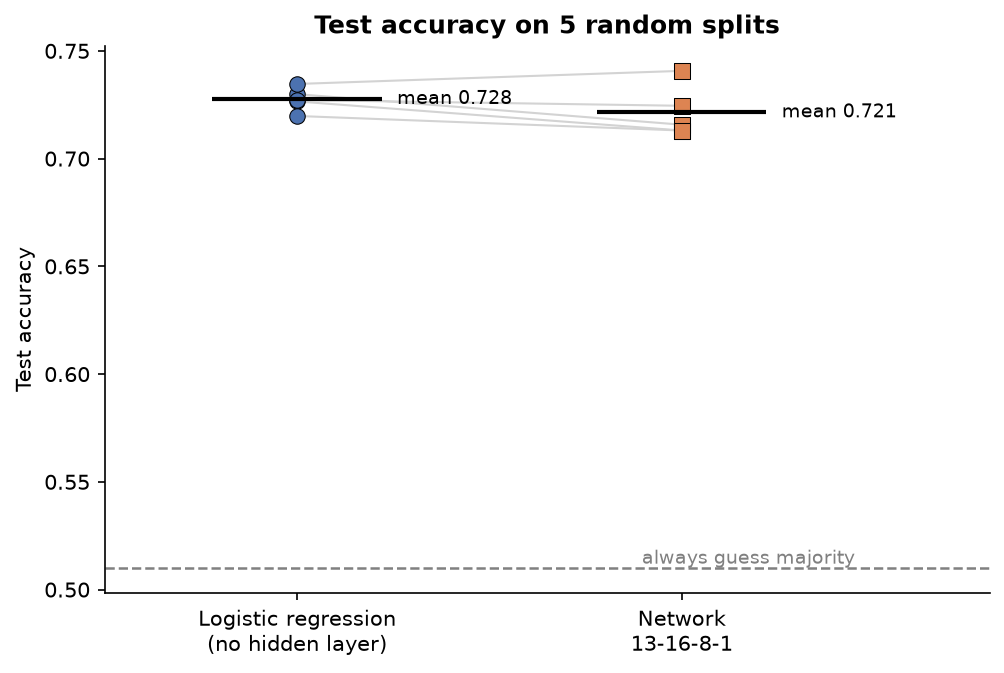
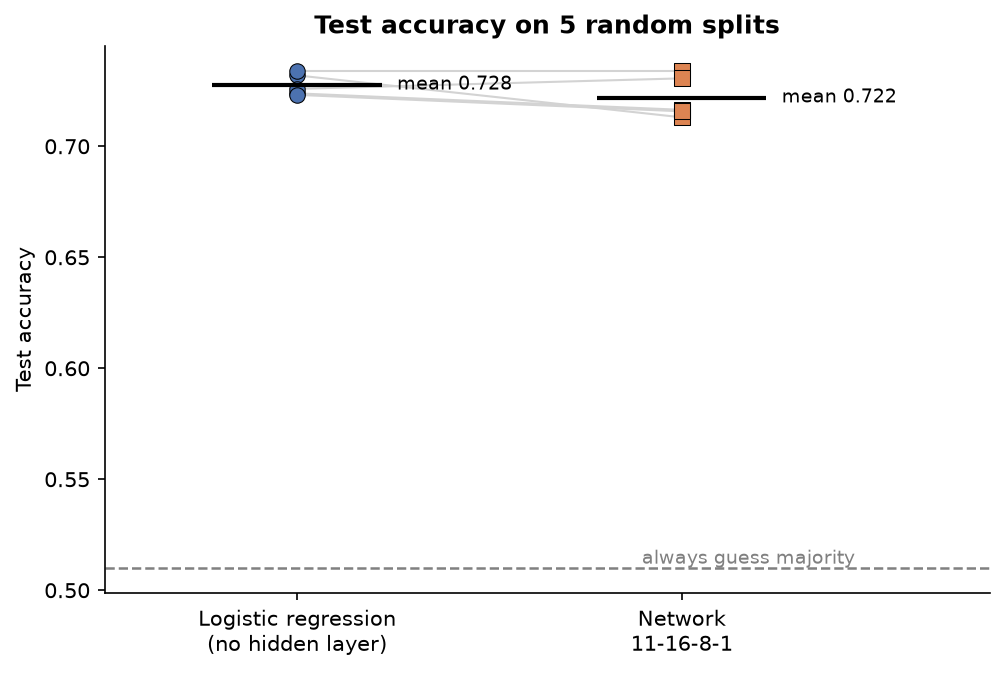
Document mirroring, learning curve and all-minutes results in README
Adds a quick check table of commands and expected output, mirrored
cross-validation rows, the all-minutes results and the confidence
table.

diff --git a/README.md b/README.md
@@ -20,10 +20,11 @@ well as the network, the boosted trees and their ensemble** on these 11 features
 | Data pipeline: CSV loader, train/val/test split, standardization | `nn/data.py` |
 | Metrics and diagnostics: accuracy, confusion matrix, majority baseline, overfitting report | `nn/metrics.py`, `nn/diagnostics.py` |
 | Exact logistic regression (Newton's method), the baseline every other model has to beat | `nn/logistic.py` |
+| Blue/red mirror: train on every game from both teams' points of view, average the two answers | `nn/symmetry.py` |
 | Save / load a trained model (weights + scaler) | `nn/persistence.py` |
 | Visualizations | `nn/visualize.py` |
-| Examples | `examples/xor.py`, `examples/lol_winner.py`, `examples/predict_game.py`, `examples/compare_models.py`, `examples/cross_validate.py` |
-| Tests (35) | `tests/` |
+| Examples | `examples/xor.py`, `examples/lol_winner.py`, `examples/predict_game.py`, `examples/compare_models.py`, `examples/cross_validate.py`, `examples/learning_curve.py`, `examples/anytime.py` |
+| Tests (45) | `tests/` |
 
 Features: L2 regularization, He / Xavier initialization, overflow-safe sigmoid.
 
@@ -105,15 +106,35 @@ Always run from the project root.
 
 ```
 python -m examples.xor                  # classic sanity check: learn XOR, with visualizations
-python -m tests.test_gradients          # also: test_training, test_persistence, test_diagnostics,
-                                        #       test_timeline, test_logistic, test_data
+python -m tests.test_gradients          # also: test_training, test_persistence, test_diagnostics, test_timeline,
+                                        #       test_logistic, test_data, test_symmetry, test_metrics, test_anytime
 python -m examples.lol_winner           # train on the real data, evaluate, save the model
 python -m examples.predict_game goldDiff=2000 expDiff=1000 killDiff=3
 python -m examples.compare_models       # logistic regression vs the network, over 5 splits
-python -m examples.cross_validate       # every model, 10-fold: one score per model (about 2 minutes)
+python -m examples.cross_validate       # every model, 10-fold: one score per model (about 5 minutes)
+python -m examples.learning_curve       # does more data help? (about 5 minutes, saves docs/learning_curve.png)
 ```
 
+Examples that draw figures open them in a window and wait for you to close it. To only save the
+figures, set `$env:MPLBACKEND="Agg"` first in PowerShell (`export MPLBACKEND=Agg` on Mac/Linux).
+
 `python -m pytest` runs all the tests at once (pytest is in `requirements.txt`).
+
+### Check that it works
+
+| Command | Takes | You should see |
+|---|---|---|
+| `python -m pytest -q` | 3 s | `45 passed` |
+| `python -m examples.xor` | 10 s | the four XOR predictions near 0, 1, 1, 0 |
+| `python -m examples.lol_winner` | 10 s | test accuracy 71.4% (one split, ±2.3), the "How far to trust a call" table, `Saved model -> models/lol_model.npz` |
+| `python -m examples.predict_game goldDiff=2000 expDiff=1000 killDiff=3` | 1 s | a blue win chance of about 75%; swap the signs and red gets the same 75% |
+| `python -m examples.compare_models` | 1 min | logistic regression 72.8%, network 72.2% (5 splits) |
+| `python -m examples.cross_validate` | 5 min | the table under Results; exact logistic regression 73.4% ± 0.9 |
+| `python -m examples.learning_curve` | 5 min | the table under "Does more data help?" |
+| `python -m examples.anytime` | 3 min | the all-minutes tables (needs `data/games.jsonl`) |
+
+Runs are seeded, so the numbers repeat exactly on the same machine. NumPy versions can shift the last
+digit of a log loss. If `±` shows up as `?` in the console, run `$env:PYTHONIOENCODING="utf-8"` first.
 
 **Data:** download `high_diamond_ranked_10min.csv` from Kaggle
 (*League of Legends Diamond Ranked Games (10 min)*, about 9,900 high-rank solo queue games)
@@ -133,6 +154,12 @@ weight of about 0, and dropping them left its accuracy unchanged. The rest of th
 no duplicates or missing values, and the columns that mirror each other (blue kills and red
 deaths, for example) agree on every game.
 
+First blood is +1 if blue got it and -1 if red did, so **every feature changes sign if the two teams
+swap places**. That symmetry is used twice (`nn/symmetry.py`): each game is also trained on from the
+other team's point of view, which doubles the rows without a single new game, and a prediction is the
+average of the two views, so it cannot depend on which team happens to be called blue. Results below
+marked "(mirrored)" use it.
+
 ## Collecting more data and combining models
 
 The Kaggle file is a fixed 10-minute snapshot, which caps how well any model can do. These parts
@@ -143,6 +170,7 @@ $env:RIOT_API_KEY="RGAPI-..."           # free development key, developer.riotga
 python -m collect.riot --per-tier 2500   # 8 tiers x 2500 games, resumable, ~15-20 h, ~320 MB
 python -m examples.ensemble --games data/games.jsonl
 python -m examples.ensemble              # same models on the Kaggle CSV
+python -m examples.anytime               # one model for every minute vs one per minute (needs data/games.jsonl)
 ```
 
 | Part | Files |
@@ -151,6 +179,7 @@ python -m examples.ensemble              # same models on the Kaggle CSV
 | Features at any minute: gold / XP momentum, lane-by-lane gold, carry gap, recent kills, tier, champion win-rate prior (fit on training games only) | `nn/timeline.py` |
 | Gradient-boosted trees from scratch (Newton boosting, histogram splits) | `nn/boosting.py` |
 | Ensemble: logistic regression + network + boosted trees, probabilities averaged | `nn/ensemble.py` |
+| One model for every minute: logistic regression + boosted trees trained on rows from every minute of every game | `nn/anytime.py`, `build_rows` in `nn/timeline.py` |
 
 On the Kaggle CSV (11 features) the ensemble does **not** beat plain logistic regression
 (73.1% against 73.4%, see Results): those features hold only so much signal. The gains have to come
@@ -158,12 +187,13 @@ from the new features and from predicting at later minutes, which need the colle
 Games that end before a checkpoint are dropped from that checkpoint, so later minutes are scored
 on longer games only.
 
-A first look at the collected data (800 games, 100 per tier, five random splits). Each test set is
-only 120 games, so the margin is 2 to 5 points: a smoke test, not a result.
+A first look at the collected data (800 games, 100 per tier, five random splits, every model trained on
+both teams' views of each game). Each test set is only 120 games, so the margin is 2 to 5 points: a
+smoke test, not a result.
 
 ![Accuracy by minute](docs/accuracy_vs_time.png)
 
-Accuracy climbs from about 62% at minute 5 to 76-78% at minute 20, and the models cannot be told apart
+Accuracy climbs from about 63% at minute 5 to 78% at minute 20, and the models cannot be told apart
 at this size. One bug is fixed here. The champion win-rate feature used to contain each training game's
 own result, so it picked the winner 71.7% of the time on the games it was fitted on and 51.7% on new
 games, and the models overfit to it. Training games are now scored leave-one-game-out
@@ -171,9 +201,32 @@ games, and the models overfit to it. Training games are now scored leave-one-gam
 5-fold check on the same 800 games (margin about 3 points) this raised logistic regression by 1.6 to
 2.2 points at every checkpoint.
 
+### One model for every minute
+
+Four separate models, one per checkpoint minute, each see only 800 games. `python -m examples.anytime`
+instead trains one logistic regression and one set of boosted trees on rows from **every** minute from
+5 to 30 of every training game (the same game at minute 5, 6, 7 ...), with the minute as an extra input.
+It sees many more rows, answers at any minute (not only at the checkpoints), and is still scored on whole
+games: the folds are split by game, so rows of one game never land on both sides. 5-fold cross-validation,
+accuracy / log loss at each checkpoint (games that lasted that long):
+
+| Model | minute 5 | minute 10 | minute 15 | minute 20 | minute 25 |
+|---|---|---|---|---|---|
+| Logistic regression, one per minute | 62.3% / 0.652 | 69.4% / 0.591 | 74.7% / 0.527 | 77.0% / 0.468 | 80.5% / 0.406 |
+| Boosted trees, one per minute | 62.1% / 0.649 | 69.9% / 0.602 | 73.5% / 0.531 | 77.4% / 0.468 | 80.4% / 0.430 |
+| Both, one per minute | 62.6% / 0.644 | 70.9% / 0.590 | 74.3% / 0.519 | 77.2% / 0.459 | 80.2% / 0.409 |
+| Logistic regression, all minutes | 61.4% / 0.638 | 70.3% / 0.580 | 75.6% / 0.520 | 79.0% / 0.451 | 81.8% / 0.399 |
+| Boosted trees, all minutes | 63.6% / 0.637 | 70.7% / 0.581 | 75.6% / 0.513 | 77.6% / 0.452 | 81.8% / 0.400 |
+| Both, all minutes | 62.9% / 0.636 | 71.1% / 0.578 | 76.4% / 0.513 | 78.1% / 0.448 | 82.0% / 0.395 |
+
+The all-minutes models are ahead by about a point of accuracy on average, and "both, all minutes" has the
+lowest log loss at every checkpoint (0.006 to 0.014 below "both, one per minute"). Of the fifteen paired
+accuracy comparisons, three are clear on their own (95% interval above 0) and none is clearly negative.
+With 800 games that is a promising signal, not a result; the example prints the intervals.
+
 ## Results
 
-Cross-validated over all 9,879 games (`python -m examples.cross_validate`, about 2 minutes). Every game
+Cross-validated over all 9,879 games (`python -m examples.cross_validate`, about 5 minutes). Every game
 is a test game exactly once, so each score has a margin of error of about ±0.9 points, instead of the
 ±2.3 of a single 1,481-game test set. Each model is also compared with the exact logistic regression
 on the same games, with a paired bootstrap, because the models differ by less than a point.
@@ -185,45 +238,88 @@ on the same games, with a paired bootstrap, because the models differ by less th
 | Neural network | 72.6% ± 0.9 | 0.5340 | 0.010 | +0.9 points | -0.80 [-1.23, -0.36] points |
 | Boosted trees | 72.8% ± 0.9 | 0.5335 | 0.007 | +0.9 points | -0.54 [-0.92, -0.15] points |
 | Ensemble | 73.1% ± 0.9 | 0.5302 | 0.008 | +0.5 points | -0.25 [-0.58, +0.08] points |
+| Neural network (mirrored) | 72.7% ± 0.9 | 0.5300 | 0.007 | +0.9 points | -0.65 [-0.98, -0.28] points |
+| Boosted trees (mirrored) | 73.1% ± 0.9 | 0.5305 | 0.005 | +0.5 points | -0.30 [-0.65, +0.02] points |
+| Ensemble (mirrored) | 73.1% ± 0.9 | 0.5290 | 0.003 | +0.6 points | -0.29 [-0.57, +0.00] points |
 
 "Exact logistic regression" is `nn/logistic.py` (Newton's method, nothing to tune). "Logistic regression"
 is the Adam-trained one inside the ensemble. Always guessing the majority gives 50.1%.
 
-- **Nothing beats logistic regression.** The ensemble cannot be told apart from it (its interval includes
-  0); the network and the boosted trees are reliably, but only slightly, worse. That suggests these 11
-  features are close to linear in the outcome, so extra flexibility has little to find.
+- **Nothing beats logistic regression.** The plain and mirrored ensembles and the mirrored trees are
+  within noise of it (their intervals reach 0); the network and the plain boosted trees are reliably,
+  but only slightly, worse. That suggests these 11 features are close to linear in the outcome, so extra
+  flexibility has little to find.
+- **Mirroring helps a little.** It lowers the log loss of all three (network 0.5340 to 0.5300, trees
+  0.5335 to 0.5305, ensemble 0.5302 to 0.5290) and the calibration error of the ensemble (0.008 to
+  0.003). Accuracy moves less: +0.3 points for the trees, +0.1 for the network, none for the ensemble.
 - **Overfitting is mild.** The network scores 0.9 points higher on the games it trained on than on new
   ones; logistic regression shows no gap.
 - **The probabilities can be trusted.** A predicted 70% wins about 70% of the time: the calibration error
   (average gap between predicted and observed win rate, over 10 bins) is 0.010 or less for every model.
 
+### How far to trust a call
+
+Because the probabilities are calibrated, a call is about as reliable as the model says it is. The more
+sure it is, the fewer games it covers and the more often it is right (exact logistic regression,
+cross-validated):
+
+| At least this sure | Share of games | Right |
+|---|---|---|
+| 60% | 78% | 78.2% |
+| 70% | 57% | 83.4% |
+| 80% | 35% | 88.6% |
+| 90% | 14% | 94.4% |
+
+`lol_winner` prints the same table for its test games, and `predict_game` adds the matching line to its answer.
+
+### Does more data help?
+
+`python -m examples.learning_curve` trains on growing slices of the training games and scores every
+slice on the same test games (mean of 5 splits).
+
+![Learning curves](docs/learning_curve.png)
+
+| Training games | Logistic regression | Neural network | Boosted trees |
+|---|---|---|---|
+| 207 | 71.6% | 70.3% | 70.9% |
+| 415 | 72.5% | 71.4% | 71.7% |
+| 830 | 72.9% | 71.5% | 71.8% |
+| 1,729 | 72.3% | 71.9% | 72.3% |
+| 3,458 | 72.8% | 71.9% | 72.5% |
+| 6,917 | 72.8% | 72.2% | 72.7% |
+
+Logistic regression is within half a point of its final score from 415 games on. The network and the
+trees start lower and keep creeping up, but at best they catch up with it. With 1,729 games every model
+is within half a point of its 6,917-game score, so on these 11 features the limit is the features, not
+the number of games.
+
 ### One trained network
 
-`python -m examples.lol_winner` trains one network on a single 70/15/15 split (6,917 train / 1,481
-validation / 1,481 test games) and saves it to `models/lol_model.npz`:
+`python -m examples.lol_winner` trains one network (on both views of every game) on a single 70/15/15
+split (6,917 train / 1,481 validation / 1,481 test games) and saves it to `models/lol_model.npz`:
 
 | | |
 |---|---|
-| **Test accuracy** | **71.6%** (95% margin of error about ±2.3 points) |
+| **Test accuracy** | **71.4%** (95% margin of error about ±2.3 points) |
 | Always-guess-majority baseline | 50.1% |
-| Early stopping | best epoch 77 (validation loss 0.549), stopped at epoch 102 |
+| Early stopping | best epoch 20 (validation loss 0.547), stopped at epoch 45 |
 
-This split lands a point below the cross-validated 72.6%. Both are inside the margin of a single
-1,481-game test set, which is why the table above is the number to quote.
+This split lands a bit more than a point below the cross-validated 72.7%. Both are inside the margin of
+a single 1,481-game test set, which is why the table above is the number to quote.
 
 Confusion matrix on the test set (rows = actual, columns = predicted):
 
 | | predicted red won | predicted blue won |
 |---|---|---|
-| **actual red won** | 537 (72%) | 205 (28%) |
-| **actual blue won** | 215 (29%) | 524 (71%) |
+| **actual red won** | 540 (73%) | 202 (27%) |
+| **actual blue won** | 221 (30%) | 518 (70%) |
 
 `lol_winner` finishes with an overfitting report (train vs validation gap at the best epoch, and what
 happened to both losses afterwards). `nn/diagnostics.py` holds it.
 
 The errors are balanced between the two sides. Validation loss flattens after roughly 10 epochs
 while training loss keeps falling, which is mild overfitting (about 74% training accuracy vs
-about 72% validation). The exact best epoch is noise within that plateau; early stopping restores it.
+about 71% validation). The exact best epoch is noise within that plateau; early stopping restores it.
 
 ![Training and validation curves](docs/lol_training.png)
 
@@ -241,7 +337,10 @@ illustration rather than a full picture. The layer-by-layer view of six test gam
 - **Only a 10-minute snapshot.** The model sees no champions, player skill, items, or anything after
   minute 10, and many games are still undecided then. This caps the accuracy any model can reach on
   this data. Using stats from a later point in a game gives wrong answers, since the model has no
-  notion of time.
+  notion of time. (The all-minutes model on the collected games does know the minute.)
+- **Mirroring assumes the two sides are equivalent.** If one side had a real advantage the mirrored
+  models would ignore it. Blue wins 49.9% of the Kaggle games, so little is lost there; check it on
+  other data.
 - **Narrow population.** The games are from high-rank solo queue.
   It may not transfer to other ranks, pro play, or other game patches.
 - **Sampling noise.** With about 1,500 test games, a single accuracy figure has a standard error of
@@ -254,5 +353,6 @@ illustration rather than a full picture. The layer-by-layer view of six test gam
 
 ## Ideas for next steps
 
-A calibration plot; a hyperparameter sweep; champion embeddings for draft information; dropout;
-softmax output with MNIST as a second task.
+A calibration plot; a hyperparameter sweep; a win-probability curve for a single game from the
+all-minutes model; champion embeddings for draft information; dropout; softmax output with MNIST as a
+second task.
